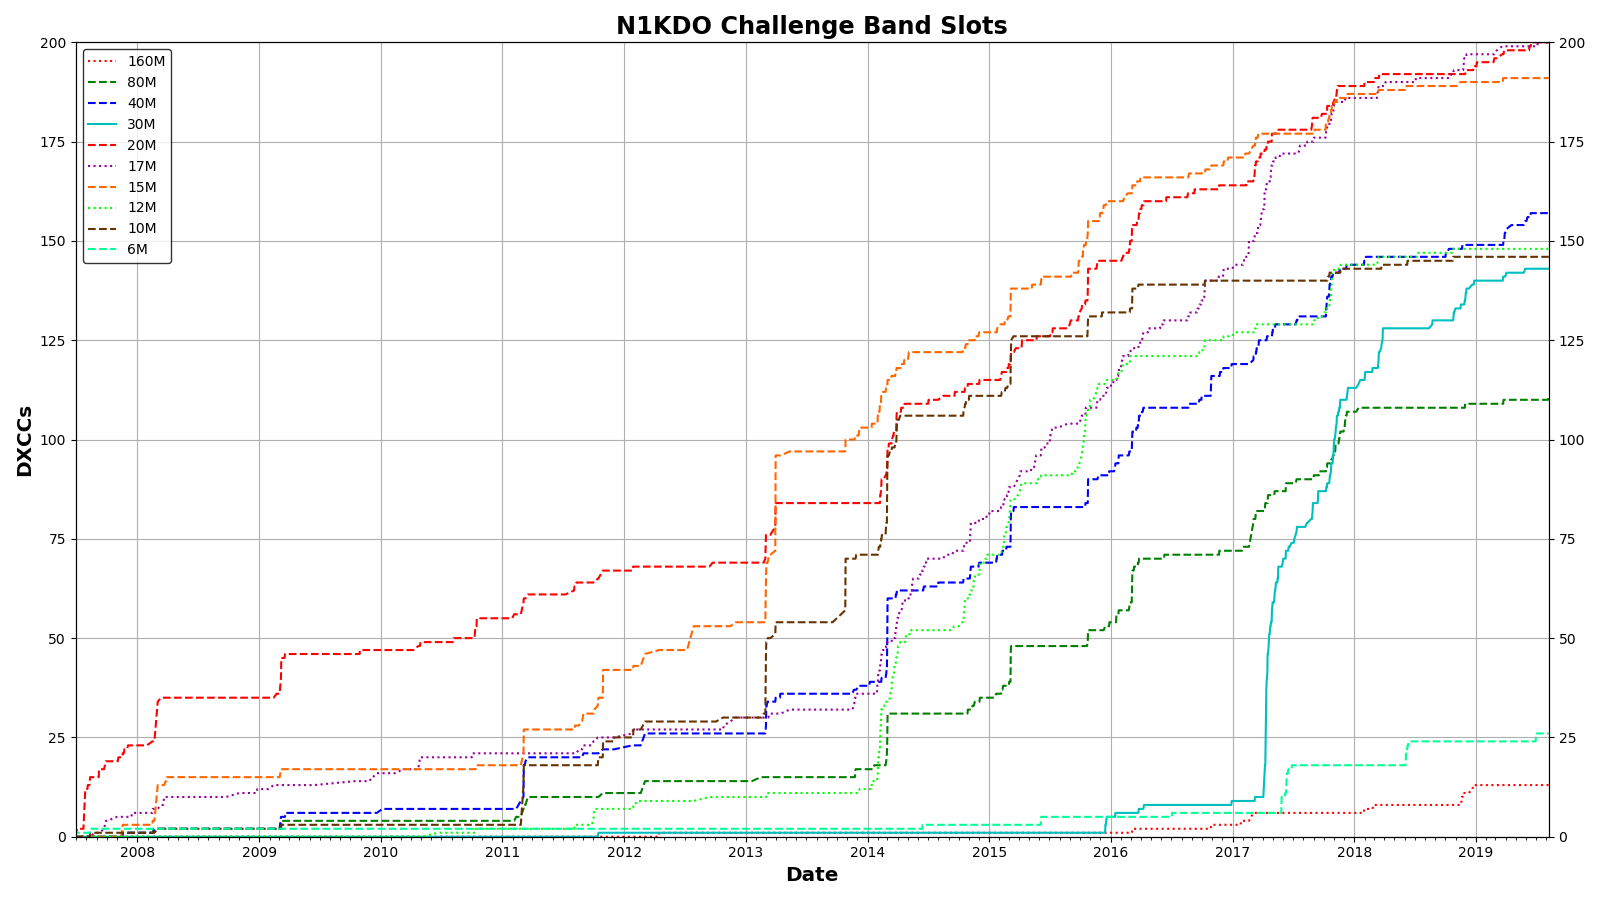
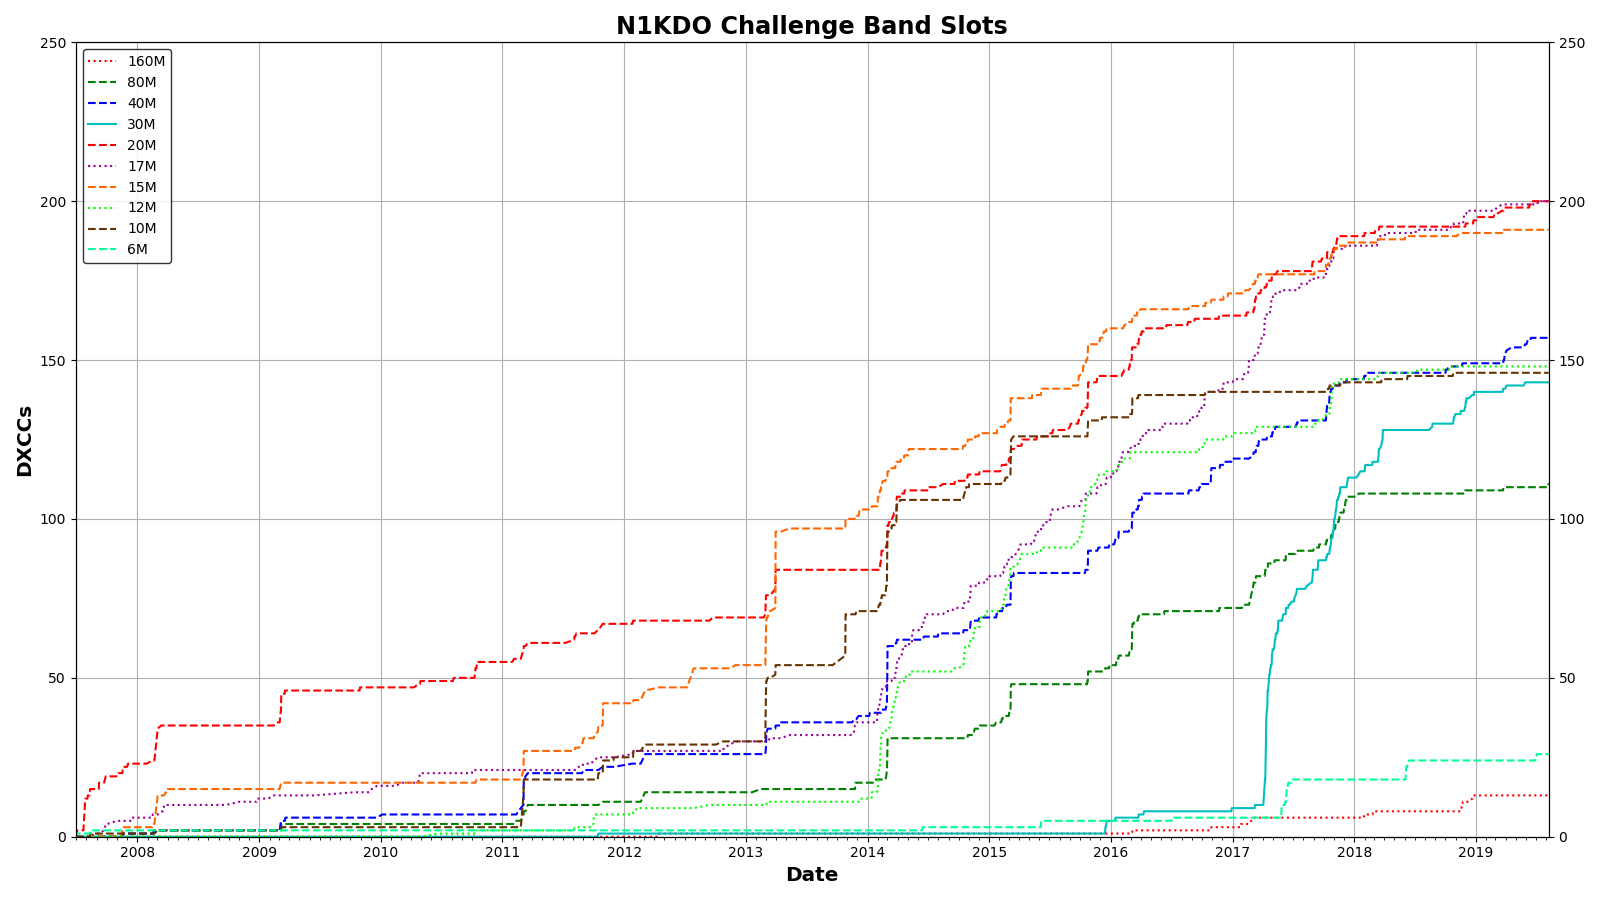
auto-scale the dxcc by band chart

diff --git a/qso_charts.py b/qso_charts.py
@@ -444,11 +444,14 @@ def plot_challenge_bands_by_date(date_records, title, filename=None, start_date=
     data = [[], [], [], [], [], [], [], [], [], [], []]
     totals = [0, 0, 0, 0, 0, 0, 0, 0, 0, 0, 0]
 
+    biggest = 0
     for counts in date_records:
         qdate = counts['qdate']
         data[0].append(qdate)
         for i in range(0, len(challenge_bands)):
             totals[i] += counts['challenge_' + challenge_bands[i]]
+            if totals[i] > biggest:
+                biggest = totals[i]
             data[i + 1].append(totals[i])
 
     # {'pad': 0.10}
@@ -465,7 +468,9 @@ def plot_challenge_bands_by_date(date_records, title, filename=None, start_date=
     if end_date is None:
         end_date = dates[-1]
     ax.set_xlim(start_date, end_date)
-    ax.set_ylim(0, 200)
+
+    y_end = (int(biggest / 50) + 1) * 50
+    ax.set_ylim(0, y_end)
 
     for i in range(0, len(challenge_bands)):
         ax.plot_date(dates, data[i + 1], color=colors[i],

diff --git a/adif.py b/adif.py
@@ -247,20 +247,23 @@ def write_adif_file(qsos, adif_file_name):
                    'app_lotw_dxcc_entity_status',
                    'app_lotw_dxcc_processed_dtg',
                    'app_lotw_npsunit',
+                   'app_lotw_owncall',
                    'app_lotw_gridsquare_invalid',
                    'app_lotw_ituz_inferred',
                    'app_lotw_ituz_invalid',
                    'app_lotw_qslmode',
                    'band_rx',
-                   'cqz', 'credit_granted',
                    'cnty',
+                   'cqz',
+                   'credit_granted',
                    'freq',
                    'freq_rx',
                    'iota',
                    'ituz',
-                   'state',
                    'pfx',
                    'qslrdate',
+                   'station_callsign',
+                   'state',
                    'time_on',
                    ]
     with open(adif_file_name, 'w') as f:
